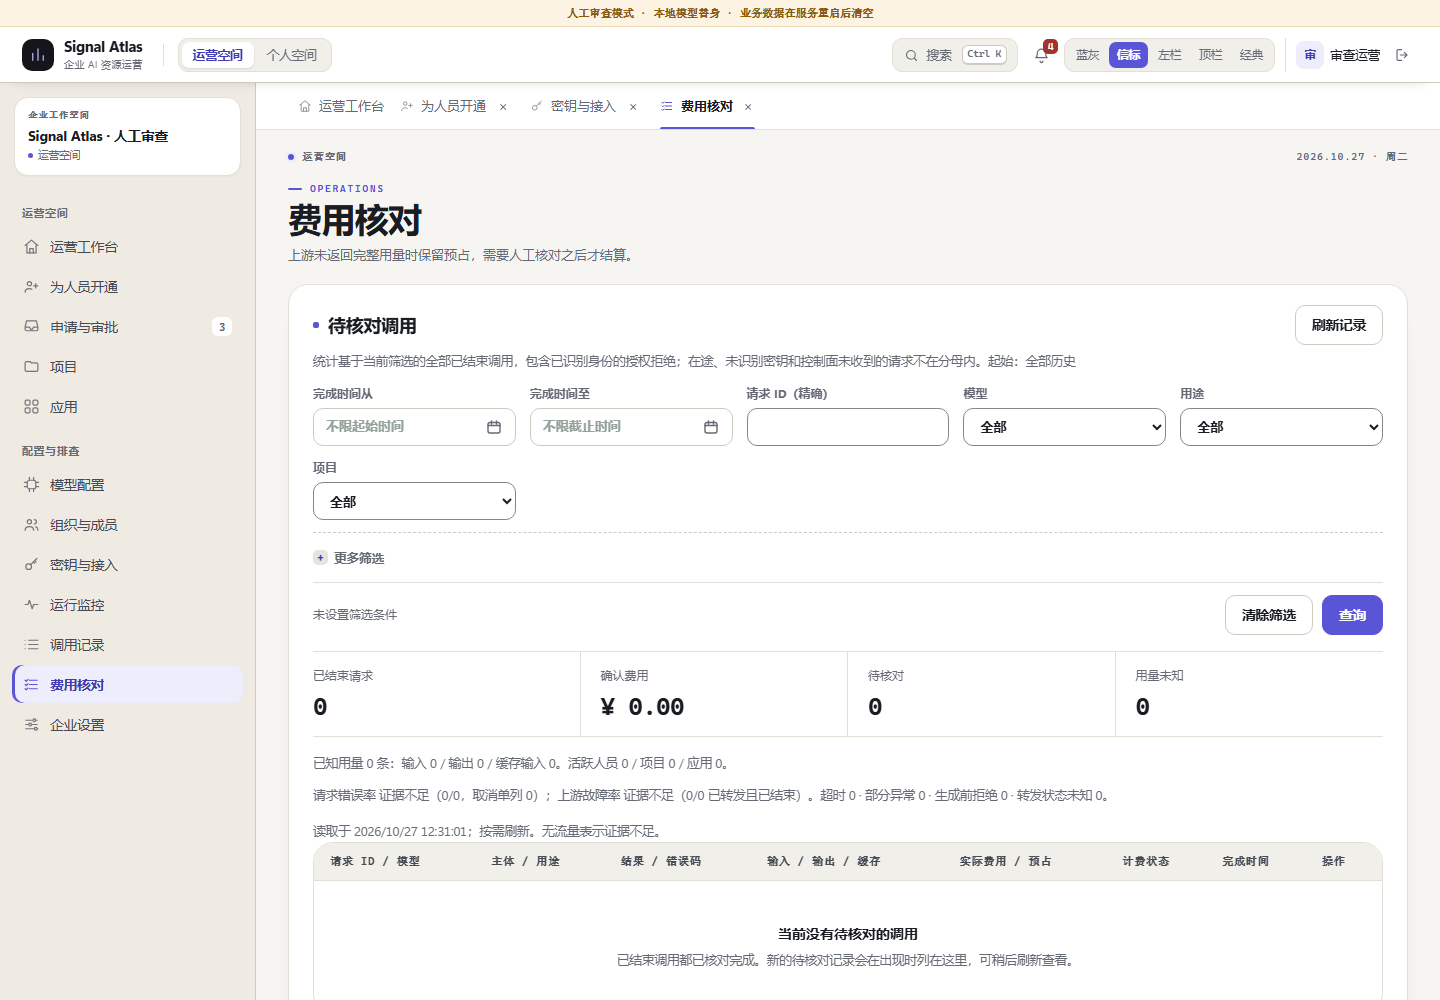
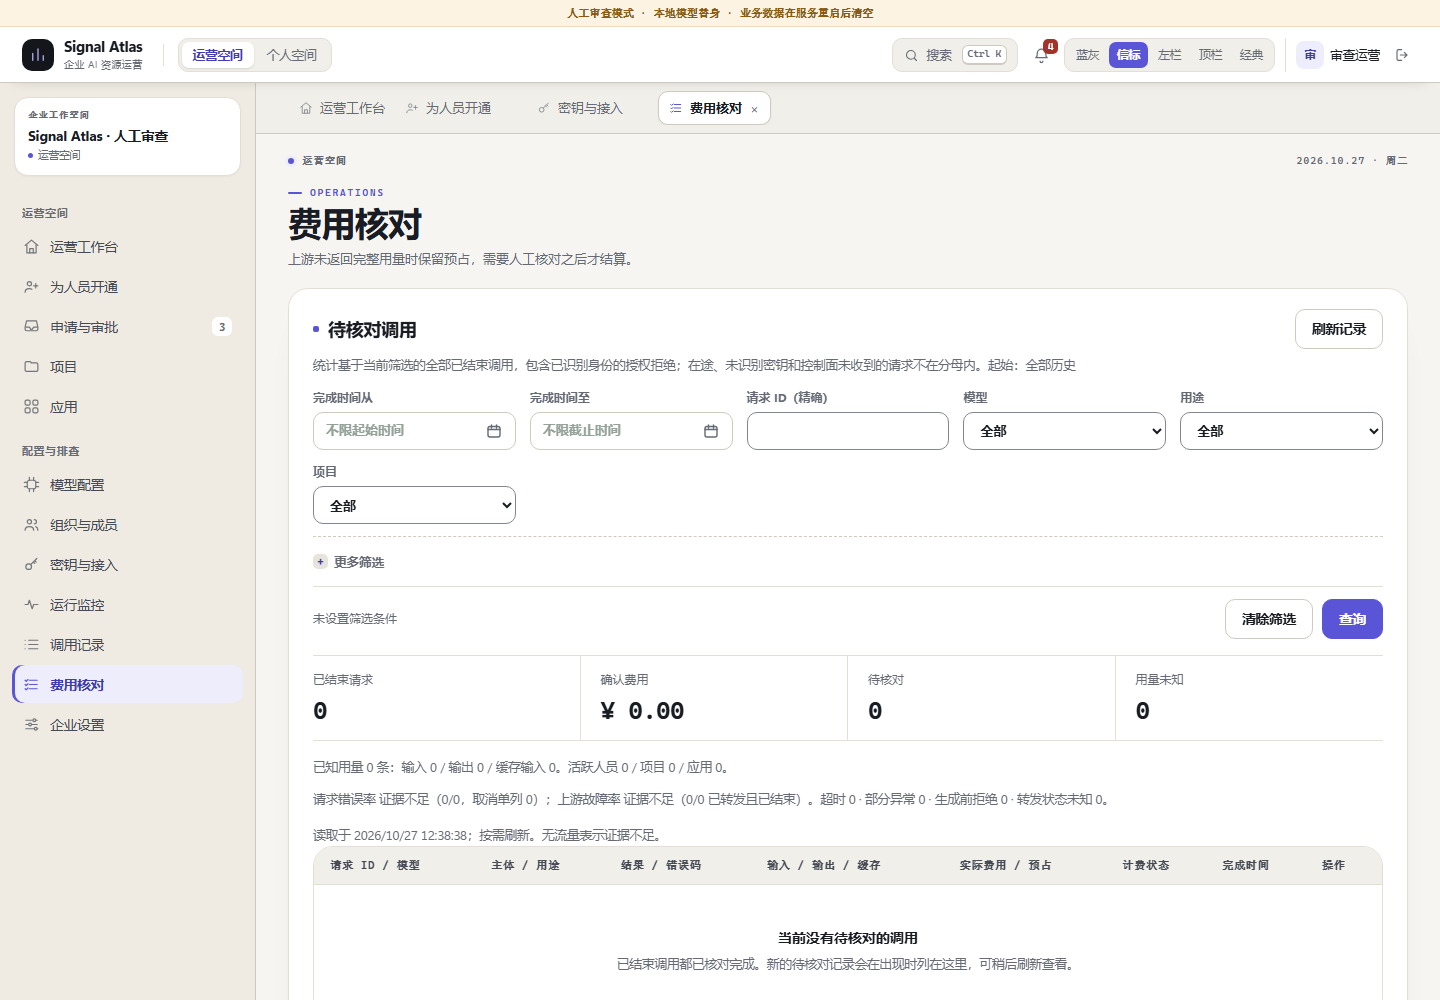
refactor(web): rebuild the beacon page tabs as browser-style cards
The underline version read like breadcrumbs: the rule ran under the close
button too, and a thin band left the strip looking empty. These tabs are opened
pages, not view switches, so use the mature form instead:

- strip: --surface2 band with a --line-strong underline, instead of a bare white
  band that disappeared into the warm canvas
- active tab: white card with a --line-strong border and a light shadow, ink
  text and the accent page icon; inactive tabs are transparent grey text and
  turn white on hover
- the close button only appears on the active tab, on hover and on keyboard
  focus, so a row of × stops competing with the page names (it stays in the DOM
  and is revealed on focus)
- tab 34px inside a 50px strip; 38px and an always-visible × on coarse pointers

Re-verified: typecheck, build, 82 browser assertions, 110 page/width overflow
combinations; screenshots re-shot against the seeded demo data.

diff --git a/apps/web/src/design-v5.css b/apps/web/src/design-v5.css
@@ -402,23 +402,22 @@ html[data-ui="beacon"] .v4-sidebar-footer { display: none; margin-top: auto; pad
 html[data-ui="beacon"] .v4-side-note { display: block; margin: 0 2px 10px; color: var(--azure-faint); font-size: 10.5px; line-height: 1.5; }
 
 /* ---------- page tabs ---------- */
-/* Reference language for tabs is 「白条 + 紫色下划线」: the bar is a white strip
-   inside the chrome, the active tab is ink text with a 2px accent rule. On the
-   warm canvas a white pill was invisible, and a filled pill would have competed
-   with the rail's selected state. */
+/* 页面标签是“已打开的页面”，语义上接近浏览器 / VS Code 的标签，而不是视图切换。
+   所以用成熟形态：暖灰条 + 浮起的白卡片（活动）+ 沉下的透明标签（非活动），
+   关闭按钮只在活动项、hover 与键盘焦点下常显。 */
 html[data-ui="beacon"] .v4-tabbar {
   position: sticky;
   top: var(--azure-topbar);
   z-index: 25;
-  background: var(--surface);
-  border-bottom: 1px solid var(--line);
-  padding-top: 0;
+  background: var(--surface2);
+  border-bottom: 1px solid var(--line-strong);
+  padding: 8px 0;
 }
-html[data-ui="beacon"] .v4-tabbar-inner { display: flex; align-items: stretch; width: 100%; max-width: 1320px; margin: 0 auto; padding: 0 var(--v2-pad); min-height: 46px; }
+html[data-ui="beacon"] .v4-tabbar-inner { display: flex; align-items: center; width: 100%; max-width: 1320px; margin: 0 auto; padding: 0 var(--v2-pad); min-height: 34px; }
 html[data-ui="beacon"] .v4-tabs {
   display: flex;
-  align-items: stretch;
-  gap: 0;
+  align-items: center;
+  gap: 4px;
   width: 100%;
   min-width: 0;
   overflow-x: auto;
@@ -430,30 +429,27 @@ html[data-ui="beacon"] .v4-tab {
   display: flex;
   align-items: center;
   flex: none;
-  height: 46px;
-  border-radius: 0;
-  transition: background 120ms var(--beacon-ease);
+  height: 34px;
+  border: 1px solid transparent;
+  border-radius: 10px;
+  background: transparent;
+  transition: background 120ms var(--beacon-ease), border-color 120ms var(--beacon-ease), box-shadow 120ms var(--beacon-ease);
 }
-html[data-ui="beacon"] .v4-tab:hover { background: var(--surface2); }
-html[data-ui="beacon"] .v4-tab.active { background: transparent; box-shadow: none; }
-html[data-ui="beacon"] .v4-tab.active::after {
-  content: "";
-  position: absolute;
-  left: 10px;
-  right: 10px;
-  bottom: 0;
-  height: 2px;
-  border-radius: 2px 2px 0 0;
-  background: var(--action);
+html[data-ui="beacon"] .v4-tab:hover { background: rgba(255, 255, 255, .74); border-color: var(--line); }
+html[data-ui="beacon"] .v4-tab.active {
+  background: var(--surface);
+  border-color: var(--line-strong);
+  box-shadow: 0 1px 2px rgba(25, 28, 34, .07);
 }
+html[data-ui="beacon"] .v4-tab.active::after { content: none; }
 html[data-ui="beacon"] .v4-tab-select {
   display: inline-flex;
   align-items: center;
   gap: 7px;
-  height: 46px;
-  padding: 0 6px 0 10px;
+  height: 32px;
+  padding: 0 4px 0 10px;
   border: 0;
-  border-radius: 0;
+  border-radius: 9px;
   background: transparent;
   color: var(--muted);
   font-size: 13px;
@@ -461,22 +457,28 @@ html[data-ui="beacon"] .v4-tab-select {
 }
 html[data-ui="beacon"] .v4-tab-select:hover { color: var(--text); }
 html[data-ui="beacon"] .v4-tab-select svg { flex: none; opacity: .7; }
-html[data-ui="beacon"] .v4-tab.active .v4-tab-select { color: var(--text); font-weight: 650; padding-right: 4px; }
+html[data-ui="beacon"] .v4-tab.active .v4-tab-select { color: var(--text); font-weight: 600; padding-right: 2px; }
 html[data-ui="beacon"] .v4-tab.active .v4-tab-select svg { color: var(--action); opacity: 1; }
 html[data-ui="beacon"] .v4-tab-close {
   display: grid;
   place-items: center;
-  width: 22px;
-  height: 22px;
+  width: 20px;
+  height: 20px;
   margin-right: 6px;
   flex: none;
   border: 0;
   border-radius: 6px;
   background: transparent;
   color: var(--azure-faint);
-  font-size: 14px;
+  font-size: 13px;
   line-height: 1;
+  opacity: 0;
+  transition: opacity 120ms var(--beacon-ease), background 120ms var(--beacon-ease);
 }
+/* 非活动标签不挂关闭按钮（VS Code / 浏览器行为）：hover、键盘焦点或当前页时才出现。 */
+html[data-ui="beacon"] .v4-tab:hover .v4-tab-close,
+html[data-ui="beacon"] .v4-tab.active .v4-tab-close,
+html[data-ui="beacon"] .v4-tab-close:focus-visible { opacity: 1; }
 html[data-ui="beacon"] .v4-tab-close:hover { background: var(--surface3); color: var(--text); }
 html[data-ui="beacon"] .v4-tab-close:focus-visible { outline-offset: 0; }
 html[data-ui="beacon"] .v4-backdrop { display: none; }
@@ -1338,9 +1340,9 @@ html[data-ui="beacon"] kbd { border-radius: 6px; }
 }
 
 @media (pointer: coarse) {
-  html[data-ui="beacon"] .v4-tab { height: 42px; }
-  html[data-ui="beacon"] .v4-tab-select { height: 42px; }
-  html[data-ui="beacon"] .v4-tab-close { width: 28px; height: 28px; }
+  html[data-ui="beacon"] .v4-tab { height: 38px; }
+  html[data-ui="beacon"] .v4-tab-select { height: 36px; }
+  html[data-ui="beacon"] .v4-tab-close { width: 26px; height: 26px; opacity: 1; }
   html[data-ui="beacon"] .v4-nav-item { min-height: var(--touch-min-height); }
   html[data-ui="beacon"] .primary,
   html[data-ui="beacon"] .ghost,

diff --git a/docs/product/signal-atlas-v5-beacon-review.md b/docs/product/signal-atlas-v5-beacon-review.md
@@ -78,7 +78,7 @@
 - 面板圆角 20px、内边距 20–24px、投影 `0 1px 2px rgba(25,28,34,.04), 0 20px 40px -36px rgba(25,28,34,.42)`。
 - 标签圆角 6px；表格卡片 20px；hero 卡 26px；弹窗 20px。
 - 余额大数字 48px / 650（≤760px 降为 40px）；统计条仍为 25px，表格 13.5px。
-- 顶栏 56px（窄屏 52px）、页面标签 46px、左栏 256px（≤1180px 收窄到 232px、≤900px 收进抽屉）、页面内边距 32px —— 均沿用 v4 几何，避免第五套界面改变操作习惯。
+- 顶栏 56px（窄屏 52px）、页面标签条 50px（标签 34px）、左栏 256px（≤1180px 收窄到 232px、≤900px 收进抽屉）、页面内边距 32px —— 均沿用 v4 几何，避免第五套界面改变操作习惯。
 
 ## 4. 壳层
 
@@ -116,9 +116,10 @@
 
 ### 4.3 页面标签
 
-- 顶栏之下的白色条带（`--surface` + 1px `--line` 下线），与暖白画布分开；滚动时与顶栏一起吸附。
-- 标签文字用参考件的下划线语言：非活动标签灰字、无底色，hover 才出现 `--surface2`；**活动标签深墨字 + 底部 2px 紫条**。不用白底胶囊——在暖白画布上白胶囊几乎看不出边界（这是评审提出的第一处显眼问题）。
-- 标签高 46px，图标在活动态转紫；关闭按钮 22px 灰字，hover 加深。
+- 这些是「已打开的页面」而不是视图切换，语义上接近浏览器 / VS Code 的标签，所以采用成熟形态：`--surface2` 暖灰条带（底部 1px `--line-strong`）+ **浮起的白卡片**，而不是下划线或白胶囊。
+- 活动标签：`--surface` 白底 + `--line-strong` 描边 + 轻阴影 + 深墨字 + 紫色页面图标；非活动标签透明底灰字（`#666a75` 在 `#f1efe9` 上 4.71），hover 变白。
+- 关闭按钮只在活动标签、hover 与键盘焦点下出现（VS Code 行为）；非活动标签不挂 ×，避免一排叉号成为噪音（仍在 DOM 中且可键盘聚焦，聚焦时恢复可见）。
+- 标签高 34px（条带 50px）；≤760px 横向滚动；触屏（`pointer: coarse`）下 38px 且 × 常显。
 - 同一页面只保留一个标签；空间默认页固定且不可关闭。
 - 会话内保持挂载：切换标签只改显隐，不重置筛选、步骤、草稿和滚动位置。
 
